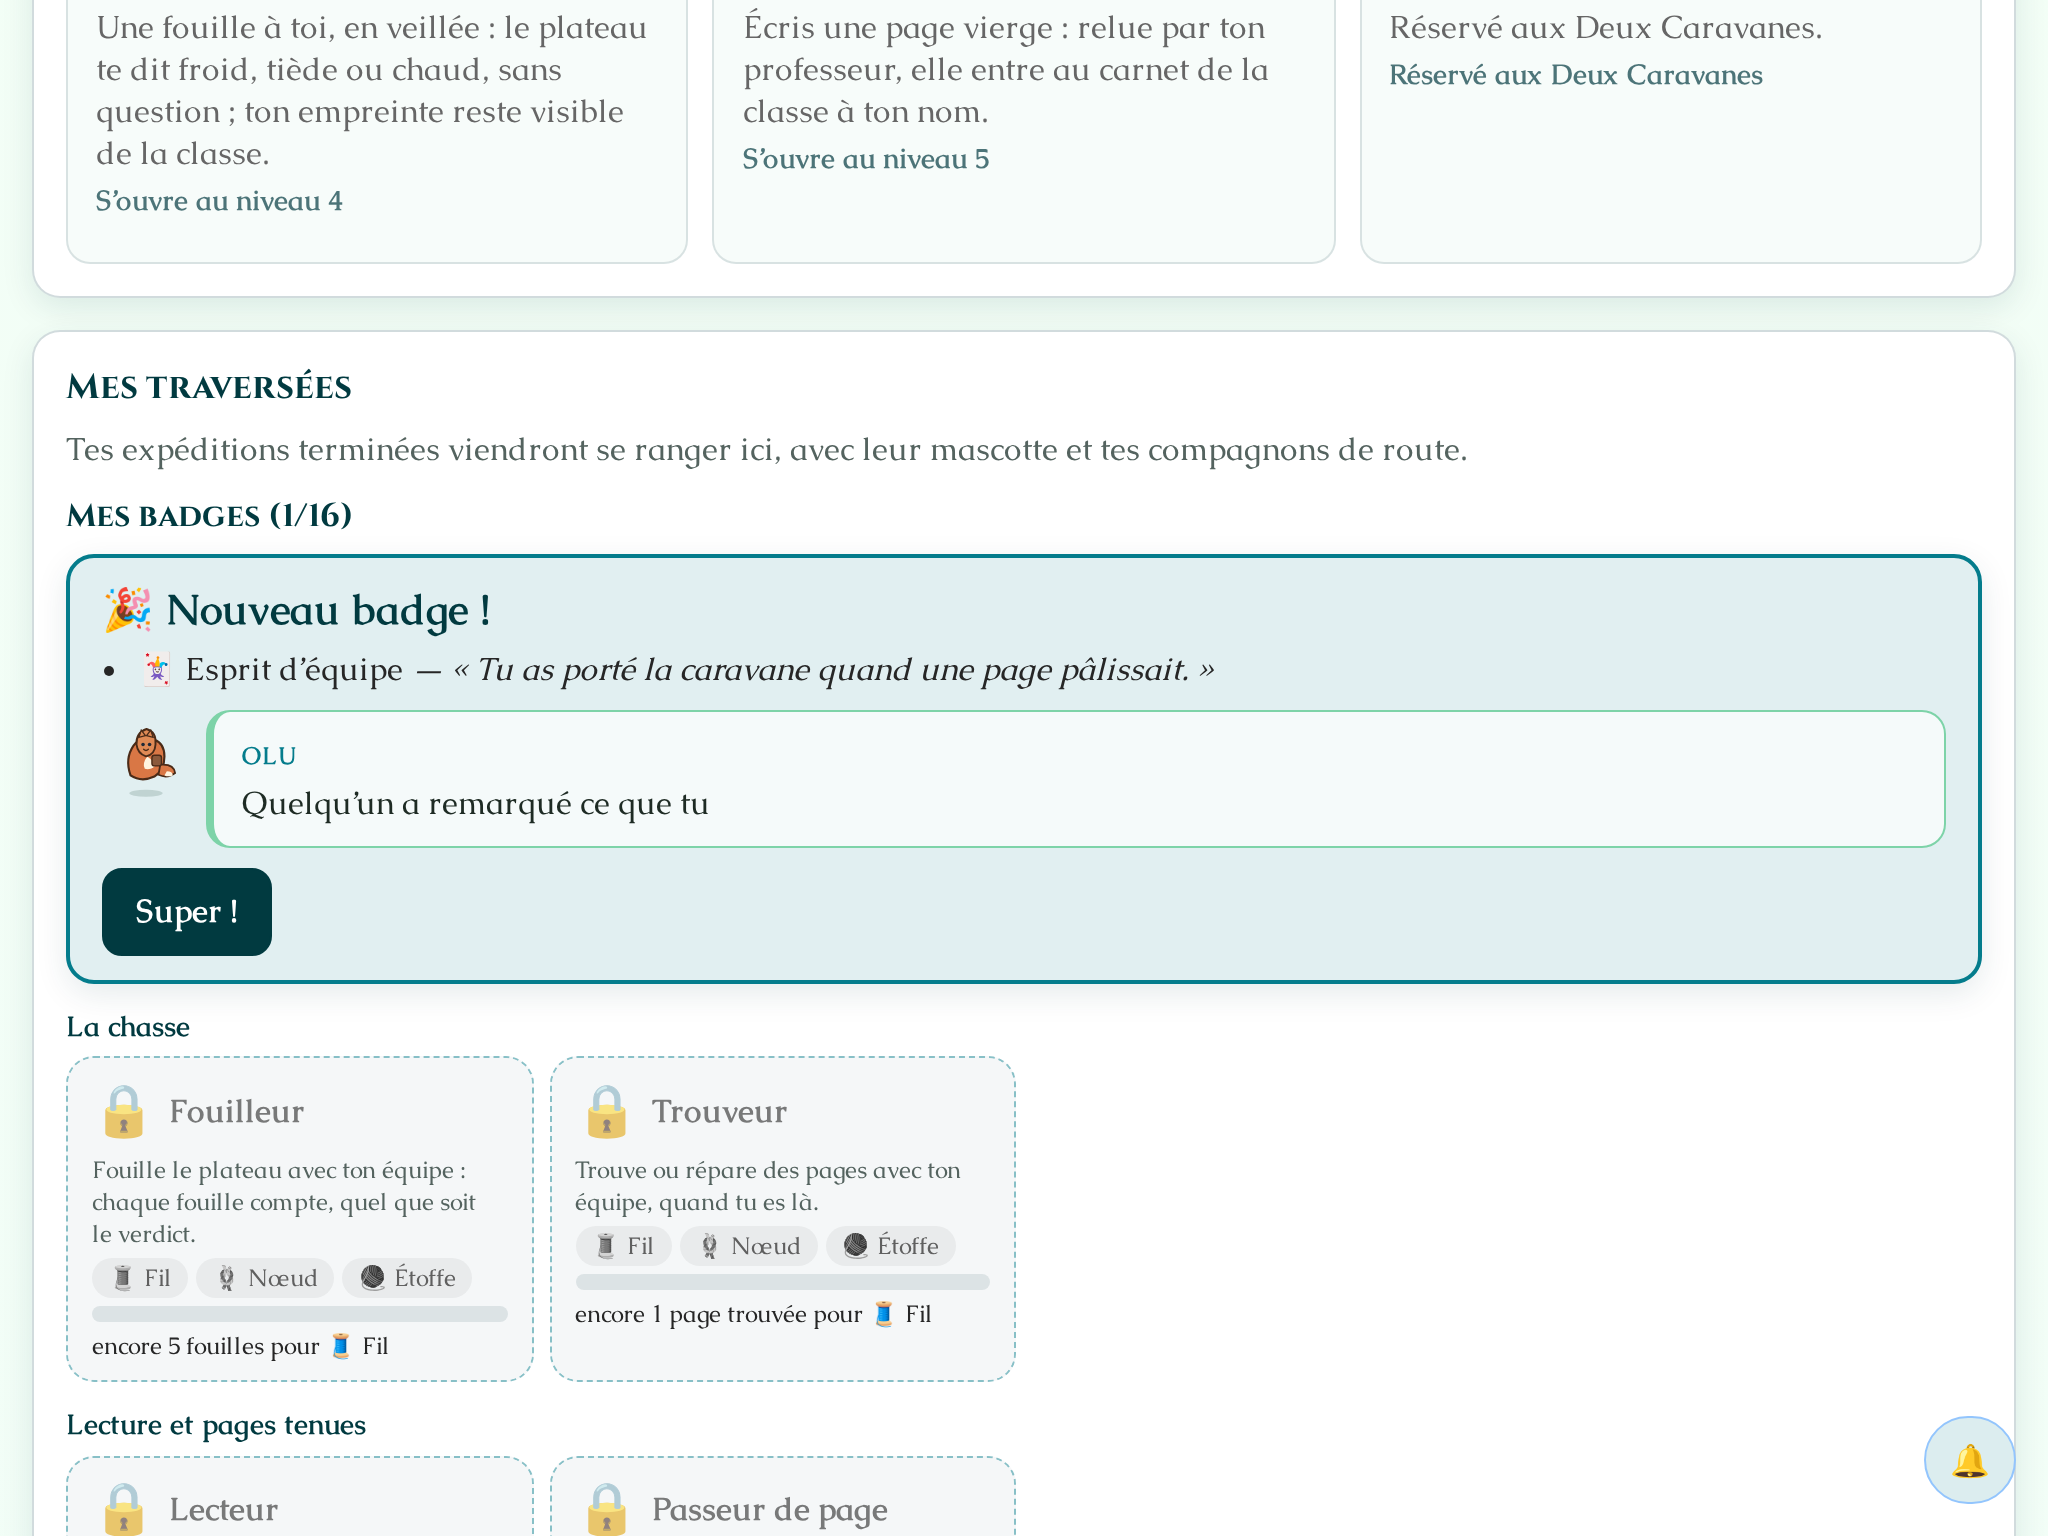
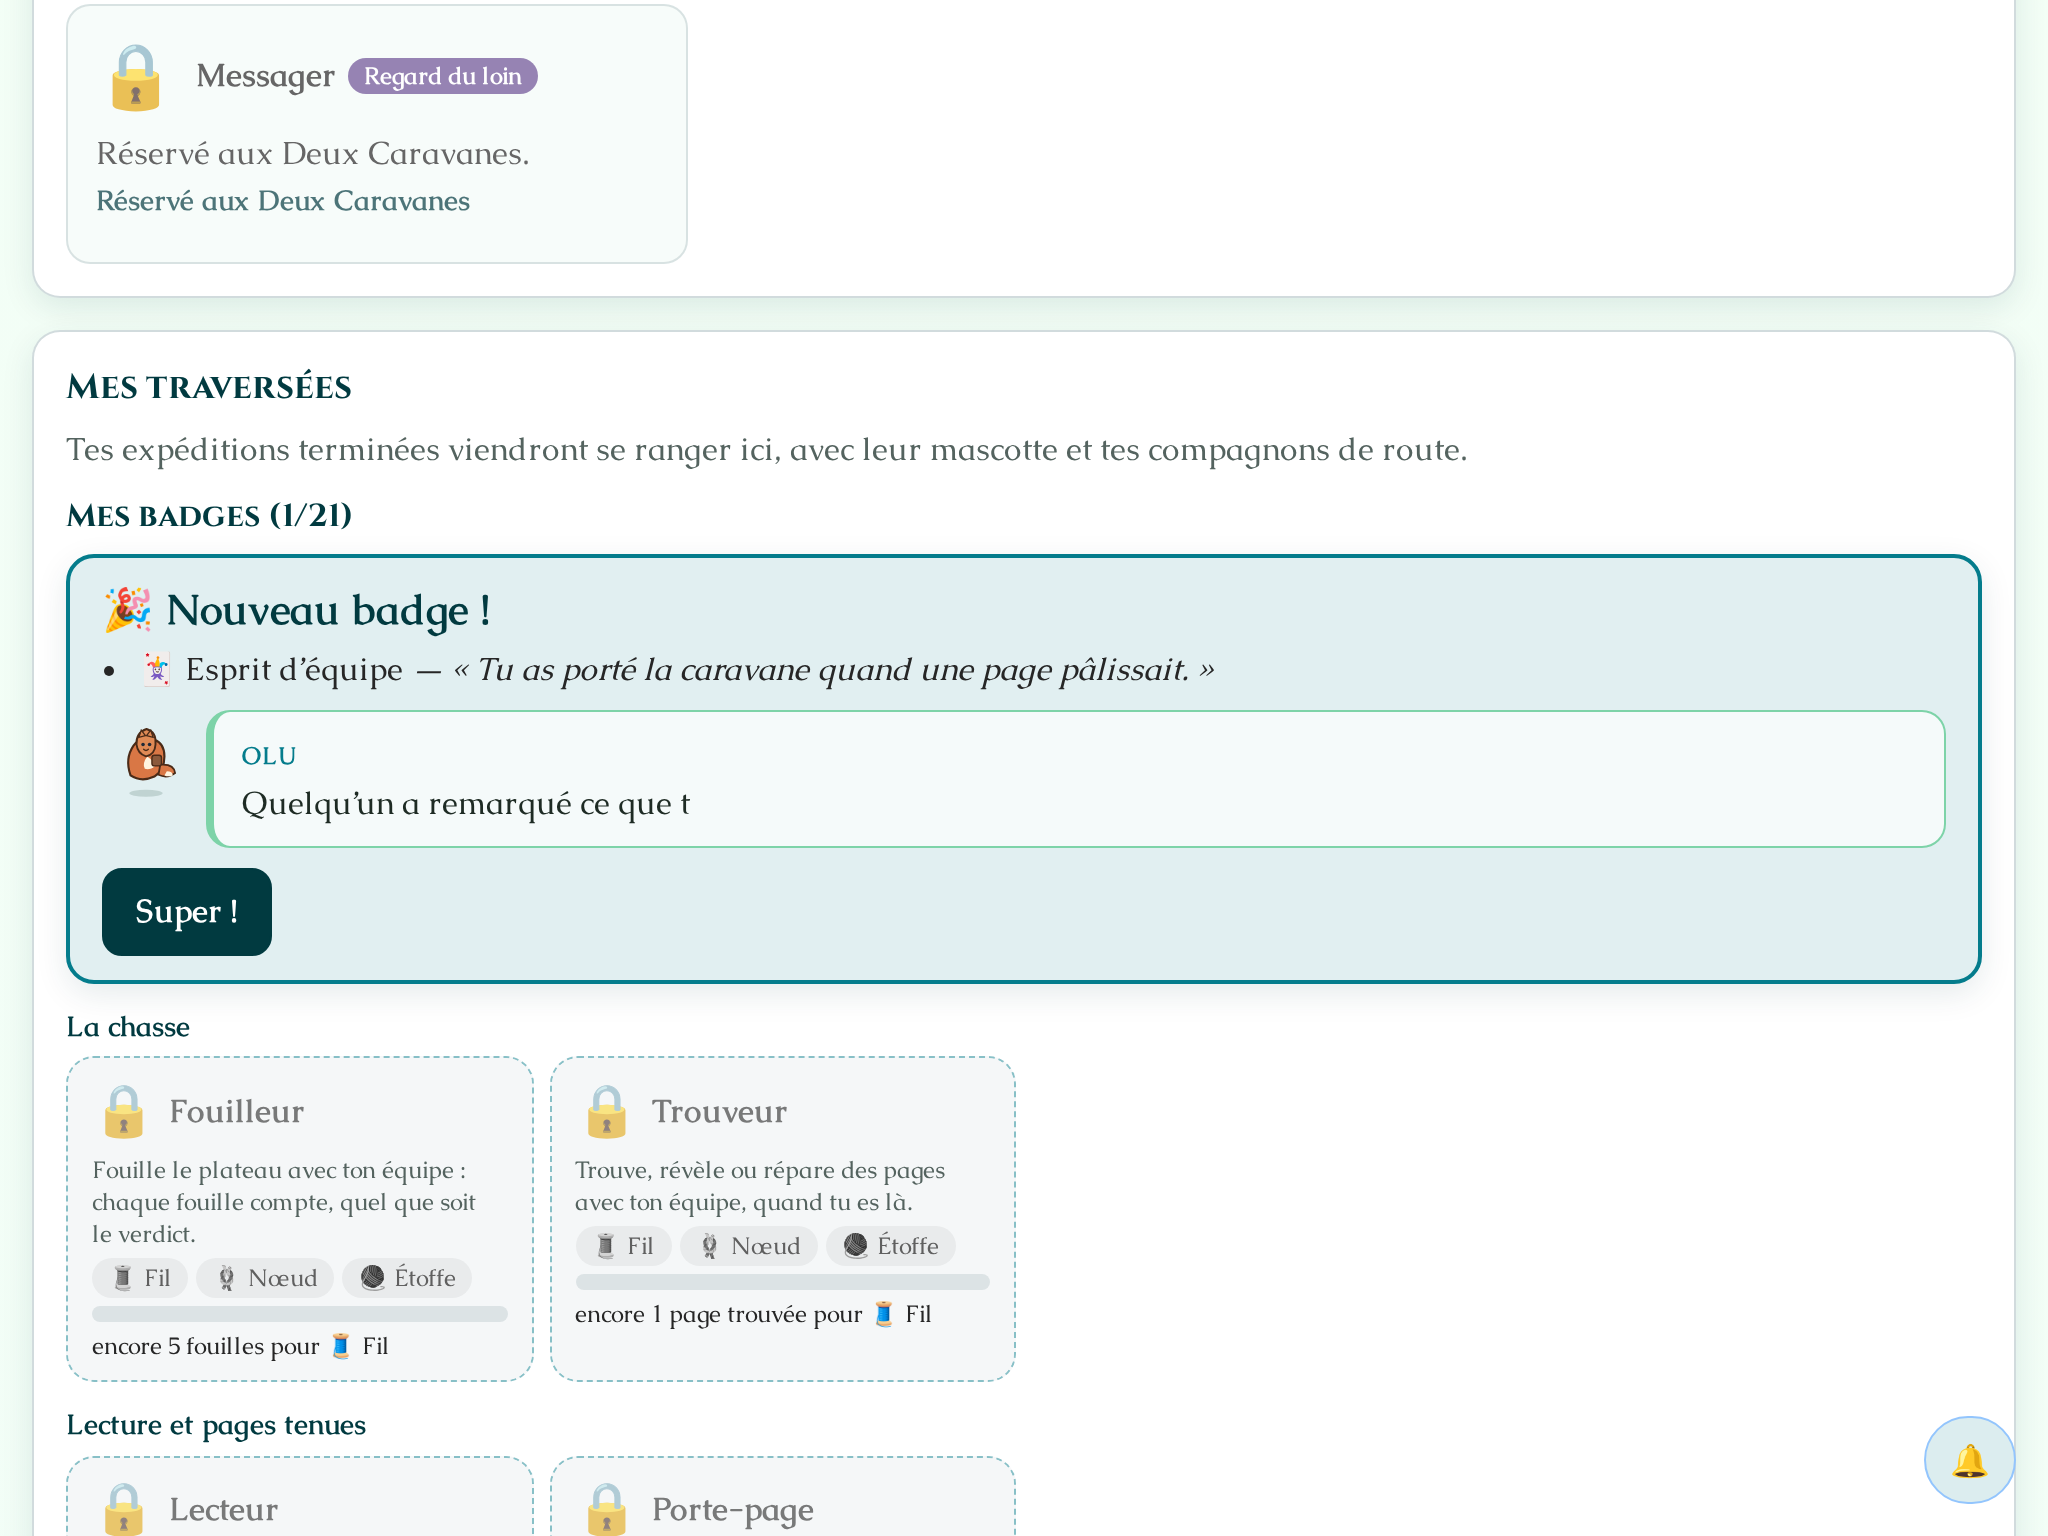
fix(gl): badges — « jeux », « niveaux », « plateaux » au pluriel ; unité du badge « Bon rangeur »
L'e2e des badges échouait : la progression disait « encore 2 jeus rangés ». pluralizeWord met
désormais un « x » aux mots en -eu et -au (jeu, niveau, plateau ; exceptions bleu, pneu…), ce
qui corrige aussi « niveaus retissés » et « plateaus réparés », déjà présents. L'unité du
badge devient « jeu réussi ».

Claude-Session: https://claude.ai/code/session_01KYTRNakbjiKMVg5tvc39cK

diff --git a/tests-ui/components/rewards/Rewards.test.jsx b/tests-ui/components/rewards/Rewards.test.jsx
@@ -72,6 +72,12 @@ describe('helpers', () => {
     expect(pluralizeUnit('tâche de jardinage', 3)).toBe('tâches de jardinage');
     expect(pluralizeUnit('espèce observée', 2)).toBe('espèces observées');
     expect(pluralizeUnit('tâche Flash', 2)).toBe('tâches Flash');
+    // Pluriels en « x » : « jeu », « niveau », « plateau ».
+    expect(pluralizeUnit('jeu réussi', 2)).toBe('jeux réussis');
+    expect(pluralizeUnit('niveau retissé', 3)).toBe('niveaux retissés');
+    expect(pluralizeUnit('plateau réparé', 2)).toBe('plateaux réparés');
+    expect(pluralizeUnit('jeu de fils démêlé', 2)).toBe('jeux de fils démêlé');
+    expect(pluralizeUnit('pneu bleu', 2)).toBe('pneus bleus');
     expect(pluralizeUnit('tâche de jardinage', 1)).toBe('tâche de jardinage');
     expect(progressLabel(JARDINAGE, { remaining: 3, nextTier: 2 })).toBe(
       'encore 3 tâches de jardinage pour 🌼 Fleur',

diff --git a/src/shared/rewards/rewardsCore.js b/src/shared/rewards/rewardsCore.js
@@ -142,9 +142,14 @@ export function assertValidCatalogue(catalogue, name = 'catalogue') {
 /** Mots qui arrêtent l'accord au pluriel d'une unité (« tâche de jardinage »). */
 const STOP_WORDS = new Set(['de', 'du', 'des', 'aux', 'à', 'et', 'sans', 'la', 'le', 'les']);
 
+/** Mots en -eu / -au qui prennent tout de même un « s ». */
+const PLURIELS_EN_S = new Set(['bleu', 'pneu', 'émeu', 'landau', 'sarrau']);
+
 function pluralizeWord(word) {
   if (!word || /[sxz]$/i.test(word) || /^[A-ZÉ«]/.test(word)) return word;
   if (/al$/.test(word)) return `${word.slice(0, -2)}aux`;
+  // « jeu » → « jeux », « niveau » → « niveaux », « plateau » → « plateaux ».
+  if (/(?:eu|au)$/.test(word) && !PLURIELS_EN_S.has(word.toLowerCase())) return `${word}x`;
   return `${word}s`;
 }
 

diff --git a/lib/shared/rewardsCore.js b/lib/shared/rewardsCore.js
@@ -146,9 +146,14 @@ function assertValidCatalogue(catalogue, name = 'catalogue') {
 /** Mots qui arrêtent l'accord au pluriel d'une unité (« tâche de jardinage »). */
 const STOP_WORDS = new Set(['de', 'du', 'des', 'aux', 'à', 'et', 'sans', 'la', 'le', 'les']);
 
+/** Mots en -eu / -au qui prennent tout de même un « s ». */
+const PLURIELS_EN_S = new Set(['bleu', 'pneu', 'émeu', 'landau', 'sarrau']);
+
 function pluralizeWord(word) {
   if (!word || /[sxz]$/i.test(word) || /^[A-ZÉ«]/.test(word)) return word;
   if (/al$/.test(word)) return `${word.slice(0, -2)}aux`;
+  // « jeu » → « jeux », « niveau » → « niveaux », « plateau » → « plateaux ».
+  if (/(?:eu|au)$/.test(word) && !PLURIELS_EN_S.has(word.toLowerCase())) return `${word}x`;
   return `${word}s`;
 }
 

diff --git a/lib/glRewardsCatalog.js b/lib/glRewardsCatalog.js
@@ -213,7 +213,7 @@ const GL_REWARD_CATALOGUE = Object.freeze(
       title: 'Bon rangeur',
       description: 'Range chaque être vivant à sa place : son rôle dans la Trame, son pays.',
       tiers: [2, 5, 9],
-      unit: 'jeu rangé',
+      unit: 'jeu réussi',
       source: 'auto',
       metric: 'trame_ranger',
     },

diff --git a/CHANGELOG.md b/CHANGELOG.md
@@ -64,6 +64,9 @@ rencontre les règles une à une au lieu de les entendre d'un bloc.
   « Les fils de l'adaptation » (type `adaptation`, catalogue `trame-adaptations.json`). Les
   solutions ne quittent pas le serveur ; jamais de gemme. « Gardien des fils » compte aussi les
   fils de l'adaptation ; badge « Bon rangeur » proposé. Migration 367.
+- **Pluriels des unités de badge** : « jeux », « niveaux », « plateaux » (au lieu de « jeus »,
+  « niveaus », « plateaus ») dans « encore N … pour … » (`src/shared/rewards/rewardsCore.js`,
+  ForetMap et G&L).
 - **Retiré** : le profil `prologue` (une partie qui le portait passe en `complet` avec
   l'escalier), les réglages `tenir_pages_veillee_par_semaine` et `tenir_defis_pages_par_semaine`,
   le Marché éteint d'office à la création d'une partie du chapitre 1 (l'escalier l'ouvre à la
